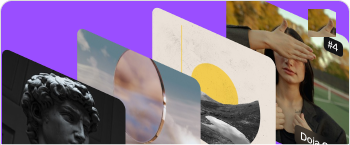
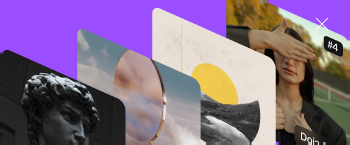
fix(explore): take the copy from the design again, and clean up the artwork's edges
Re-read the node rather than assuming it had not moved, and it had. Three copy
changes, all now matching: "Geo **N**etwork launching soon!", the placeholder is
"Email..." where it was an address, and the button reads "Subscribe" where it read
"Remind me".

The subtext is one line, as designed. At `metadata` (16px) that sentence is the
widest thing in a 350px card and wrapped onto a second line, pushing the form down;
`footnote` is the next step down the scale and fits.

The unclean outline was the raster, not the CSS. Figma exports this band with the
card's own 12px rounding and its 1px #dbdbdb border baked in, so the container's
`rounded-xl` was rounding an image that was already rounded — a pale fringe just
inside the edge, which is exactly what did not appear on the Figma frame beside it.
The border is stripped and the top corners are filled with the field colour, so the
image is full-bleed and the container's radius is the only one. Bottom stays square:
that edge runs into the content area rather than ending.

Also reverted the patch I made to the close glyph last commit. Painting it out left
a worse mark than it removed -- the glyph straddles the purple field and a photo
card, and nothing cloned or blurred from nearby matched both, so it read as a
rectangle. Rendering the chip over it hides it completely, which I checked by
compositing the two before changing any code rather than after.

483 files, 5660 tests passing. Typecheck and lint clean.

Changed region(s): [[0.0, 0.0, 1.0, 0.2759], [0.0, 0.3586, 1.0, 1.0], [0.9714, 0.331, 1.0, 0.3586]]

diff --git a/apps/web/partials/explore/email-capture-popup.tsx b/apps/web/partials/explore/email-capture-popup.tsx
@@ -140,11 +140,18 @@ function EmailCapturePopup() {
       className="fixed right-4 bottom-4 z-1101 w-[350px] max-w-[calc(100vw-2rem)] overflow-clip rounded-xl border border-grey-02 bg-white shadow-dropdown"
     >
       {/* The fanned ranking cards on their purple field, from the design (76342:20234).
-          A flat raster, like the welcome banner's artwork beside it. Exported through Figma's MCP,
-          which renders a node together with whatever overlaps its bounds — so the export arrived
-          with the close control drawn into it, and that 16px was patched out from elsewhere in the
-          same photo. Invisible at this size and covered by the real button below, but it is why
-          this wants a proper export from design, at 2x, before it ships. */}
+          A flat raster, like the welcome banner's artwork beside it. Figma's MCP renders a node
+          together with whatever overlaps its bounds, and `contentsOnly` does not change that here,
+          so the export arrived with the close glyph drawn into it. Painting it out left a worse
+          mark than it removed — the glyph straddles the purple field and a photo card, so nothing
+          cloned or blurred from nearby matched both. The real chip below is positioned over it
+          instead and hides it completely.
+
+          The raster is full-bleed on purpose. Figma exported the card's own 12px rounding and its
+          1px #dbdbdb border baked in, and a second rounding inside the container's own read as a
+          pale fringe along the edge — which is what made this look unclean next to the Figma frame.
+          The border is gone and the top corners are filled with the field colour, so the container's
+          `rounded-xl` is the only radius in play. Still wants a clean export from design, at 2x. */}
       <img src="/explore-email-capture.png" alt="" className="block h-[145px] w-full object-cover select-none" />
 
       {/* The welcome banner's close button, to the class: the two cards sit on the same page, and a
@@ -153,7 +160,9 @@ function EmailCapturePopup() {
         type="button"
         onClick={dismiss}
         aria-label="Dismiss"
-        className="absolute top-2.5 right-2.5 z-20 rounded-full border border-white/30 bg-black/40 p-1.5 text-white backdrop-blur-sm transition-colors duration-200 ease-in-out hover:bg-black/60"
+        // `top`/`right` put the 24px chip's centre on (322, 23) — where the artwork's own glyph
+        // sits — so it is covered rather than doubled. The rest is the banner's button verbatim.
+        className="absolute top-[11px] right-4 z-20 rounded-full border border-white/30 bg-black/40 p-1.5 text-white backdrop-blur-sm transition-colors duration-200 ease-in-out hover:bg-black/60"
       >
         <CloseSmall color="white" />
       </button>
@@ -174,8 +183,11 @@ function EmailCapturePopup() {
           // `inputMode` and `autoComplete` keep the phone keyboard and the autofill that
           // `type="email"` was there for.
           <form onSubmit={submit} noValidate>
-            <Text variant="mediumTitle">Geo network launching soon!</Text>
-            <Text variant="metadata" color="grey-04" className="mt-2 block">
+            <Text variant="mediumTitle">Geo Network launching soon!</Text>
+            {/* One line, as designed. The card is a fixed 350 and this sentence is the widest
+                thing in it, so it sets the floor: at `metadata` (16px) it wraps onto a second line
+                and pushes the form down. `footnote` is the next step down the scale and fits. */}
+            <Text variant="footnote" color="grey-04" className="mt-2 block whitespace-nowrap">
               Get updates on features, points, and path to mainnet.
             </Text>
 
@@ -192,7 +204,7 @@ function EmailCapturePopup() {
                   // leaving it under a field they are already fixing reads as a second complaint.
                   if (status !== 'idle' && status !== 'submitting') setStatus('idle');
                 }}
-                placeholder="nate@geobrowser.io"
+                placeholder="Email..."
                 aria-label="Email address"
                 aria-invalid={status === 'invalid-email'}
                 disabled={status === 'submitting'}
@@ -209,7 +221,7 @@ function EmailCapturePopup() {
                 disabled={status === 'submitting'}
                 className="h-7 shrink-0 rounded-full bg-[#151515] px-2.5 text-metadata text-white transition-opacity hover:opacity-90 disabled:opacity-60"
               >
-                {status === 'submitting' ? 'Sending…' : 'Remind me'}
+                {status === 'submitting' ? 'Subscribing…' : 'Subscribe'}
               </button>
             </div>
 

diff --git a/apps/web/partials/explore/email-capture-popup.test.tsx b/apps/web/partials/explore/email-capture-popup.test.tsx
@@ -117,7 +117,7 @@ describe('ExploreEmailCapturePopup', () => {
     scrollPastTrigger();
 
     fireEvent.change(screen.getByLabelText('Email address'), { target: { value: 'preston@geobrowser.io' } });
-    fireEvent.click(screen.getByRole('button', { name: 'Remind me' }));
+    fireEvent.click(screen.getByRole('button', { name: 'Subscribe' }));
 
     expect(await screen.findByText('You are on the list.')).toBeInTheDocument();
 
@@ -133,7 +133,7 @@ describe('ExploreEmailCapturePopup', () => {
     scrollPastTrigger();
 
     fireEvent.change(screen.getByLabelText('Email address'), { target: { value: 'preston' } });
-    fireEvent.click(screen.getByRole('button', { name: 'Remind me' }));
+    fireEvent.click(screen.getByRole('button', { name: 'Subscribe' }));
 
     expect(await screen.findByRole('alert')).toHaveTextContent('does not look like an email address');
     expect(mocks.fetch).not.toHaveBeenCalled();
@@ -147,7 +147,7 @@ describe('ExploreEmailCapturePopup', () => {
     scrollPastTrigger();
 
     fireEvent.change(screen.getByLabelText('Email address'), { target: { value: 'preston@geobrowser.io' } });
-    fireEvent.click(screen.getByRole('button', { name: 'Remind me' }));
+    fireEvent.click(screen.getByRole('button', { name: 'Subscribe' }));
 
     await waitFor(() => expect(screen.getByRole('alert')).toHaveTextContent('Too many tries'));
     expect(screen.queryByText('You are on the list.')).toBeNull();
@@ -159,7 +159,7 @@ describe('ExploreEmailCapturePopup', () => {
     scrollPastTrigger();
 
     fireEvent.change(screen.getByLabelText('Email address'), { target: { value: 'preston@geobrowser.io' } });
-    fireEvent.click(screen.getByRole('button', { name: 'Remind me' }));
+    fireEvent.click(screen.getByRole('button', { name: 'Subscribe' }));
 
     await waitFor(() => expect(screen.getByRole('alert')).toHaveTextContent('Something went wrong'));
   });
